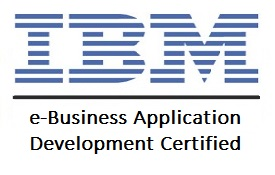
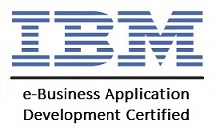
Ajustes de bandera, comentarios y reduccion de img

diff --git a/index.html b/index.html
@@ -50,7 +50,7 @@ $('#navbar-main [href=#]').click(function (e) {e.preventDefault()})
 <li><a class=page-scroll href="#portfolio">Portafolio</a></li>
 <li><a class=page-scroll href="#coments">Comentarios</a></li>
 <li><a class=page-scroll href="#contact">Contacto</a></li>
-<li><a class=page-scroll href="#"><img src="assets/img/ing.jpg"> Inglés</a></li>
+<li><a class=page-scroll href="#"><img src="assets/img/ing.jpg"></a></li>
 </div>
 </div>
 </nav>
@@ -73,18 +73,20 @@ $('#navbar-main [href=#]').click(function (e) {e.preventDefault()})
 </div>
 </div>
 </section>
-<section id=certif class="container content-section text-center">
-<div class=row>
+<section id=certif class="content-section text-center">
 <h1 class=centered>Certificaciones</h1><hr><br>
-<div class="col-lg-3 certf grises"><img src="assets/img/oca.jpg"></div>
-<div class="col-lg-3 certf grises"><img src="assets/img/oca2.jpg"></div>
-<div class="col-lg-3 certf grises"><img src="assets/img/ocp.jpg"></div>
-<div class="col-lg-3 certf grises"><img src="assets/img/ocm.jpg"></div>
+<div class=container>
+<div class=row>
+<div class="img-responsive col-lg-3 certf grises"><img src="assets/img/oca.jpg"></div>
+<div class="img-responsive col-lg-3 certf grises"><img src="assets/img/oca2.jpg"></div>
+<div class="img-responsive col-lg-3 certf grises"><img src="assets/img/ocp.jpg"></div>
+<div class="img-responsive col-lg-3 certf grises"><img src="assets/img/ocm.jpg"></div>
 </div>
-<div class= "row" align="center">
-<div class="col-lg-4 certf grises"><img src="assets/img/oce.jpg"></div>
-<div class="col-lg-4 certf grises"><img src="assets/img/oce2.jpg"></div>
-<div class="col-lg-4 certf grises"><img src="assets/img/ibm.jpg"></div>
+<div class= "row">
+<div class="img-responsive col-lg-4 certf grises"><img src="assets/img/oce.jpg"></div>
+<div class="img-responsive col-lg-4 certf grises"><img src="assets/img/oce2.jpg"></div>
+<div class="img-responsive col-lg-4 certf grises"><img src="assets/img/ibm.jpg"></div>
+</div>
 </div>
 </section>
 <section id=portfolio class="section-divider textdivider divider1">
@@ -223,7 +225,7 @@ $('#navbar-main [href=#]').click(function (e) {e.preventDefault()})
 <div class=content>
 <div class="col-lg-12 blog-content">
 <h4> <i class="fa fa-quote-left"></i> Los Ingenieros de Infobc son excelentes programadores, comunicadores y sobre todo son solucionadores de problemas. Las habilidades que poseen son diversas y se adaptan a cualquier situación. Puedo decir sinceramente que es una de las empresas más talentosa, comunicativa y única con la que he tenido el privilegio de trabajar. <i class="fa fa-quote-right"></i></h4>
-<h3 align=right>Jake Moskowitz | CEO & Co-Fundador de voyhoy.com</h3><br>
+<h4 align=right>Jake Moskowitz | CEO & Co-Fundador de voyhoy.com</h4><br>
 </div>
 </div>
 </li>
@@ -231,7 +233,7 @@ $('#navbar-main [href=#]').click(function (e) {e.preventDefault()})
 <div class=content>
 <div class="col-lg-12 blog-content">
 <h4> <i class="fa fa-quote-left"></i> Recomendamos firmemente a Infobc pues estamos extremadamente satisfechos con su rendimiento. Los desarrolladores entregan un trabajo de alta calidad a tiempo. Pero lo más importante, a diferencia de otras empresas, es que son de fiar y confiar, se comunican frecuentemente y entregan lo que prometen en el tiempo y costo razonable. Tienen un gran conocimiento y un profundo entendimiento del desarrollo "backend" de una aplicación. Es importante mencionar que pueden ponerse al día en cualquier aspecto técnico para enfrentar tareas nuevas o desconocidas. Durante los años que hemos trabajado juntos, siempre han mejorado cada día.<i class="fa fa-quote-right"></i></h4>
-<h3 align=right>Marcus J. Mollmann | CEO de capdominus.com / closetbox.me</h3><br>
+<h4 align=right>Marcus J. Mollmann | CEO de capdominus.com / closetbox.me</h4><br>
 </div>
 </div>
 </li>

diff --git a/assets/js/responsiveslides.min.js b/assets/js/responsiveslides.min.js
@@ -1,4 +1,4 @@
-(function(c,I,B){c.fn.responsiveSlides=function(l){var a=c.extend({auto:!0,speed:500,timeout:4E3,pager:!1,nav:!1,random:!1,pause:!1,pauseControls:!0,prevText:"Previous",nextText:"Next",maxwidth:"",navContainer:"",manualControls:"",namespace:"rslides",before:c.noop,after:c.noop},l);return this.each(function(){B++;var f=c(this),s,r,t,m,p,q,n=0,e=f.children(),C=e.size(),h=parseFloat(a.speed),D=parseFloat(a.timeout),u=parseFloat(a.maxwidth),g=a.namespace,d=g+B,E=g+"_nav "+d+"_nav",v=g+"_here",j=d+"_on",
+(function(c,I,B){c.fn.responsiveSlides=function(l){var a=c.extend({auto:!0,speed:500,timeout:4E3,pager:!1,nav:!1,random:!1,pause:!1,pauseControls:!0,prevText:"  Previous  ",nextText:"  Next  ",maxwidth:"",navContainer:"",manualControls:"",namespace:"rslides",before:c.noop,after:c.noop},l);return this.each(function(){B++;var f=c(this),s,r,t,m,p,q,n=0,e=f.children(),C=e.size(),h=parseFloat(a.speed),D=parseFloat(a.timeout),u=parseFloat(a.maxwidth),g=a.namespace,d=g+B,E=g+"_nav "+d+"_nav",v=g+"_here",j=d+"_on",
 w=d+"_s",k=c("<ul class='"+g+"_tabs "+d+"_tabs' />"),x={"float":"left",position:"relative",opacity:1,zIndex:2},y={"float":"none",position:"absolute",opacity:0,zIndex:1},F=function(){var b=(document.body||document.documentElement).style,a="transition";if("string"===typeof b[a])return!0;s=["Moz","Webkit","Khtml","O","ms"];var a=a.charAt(0).toUpperCase()+a.substr(1),c;for(c=0;c<s.length;c++)if("string"===typeof b[s[c]+a])return!0;return!1}(),z=function(b){a.before(b);F?(e.removeClass(j).css(y).eq(b).addClass(j).css(x),
 n=b,setTimeout(function(){a.after(b)},h)):e.stop().fadeOut(h,function(){c(this).removeClass(j).css(y).css("opacity",1)}).eq(b).fadeIn(h,function(){c(this).addClass(j).css(x);a.after(b);n=b})};a.random&&(e.sort(function(){return Math.round(Math.random())-0.5}),f.empty().append(e));e.each(function(a){this.id=w+a});f.addClass(g+" "+d);l&&l.maxwidth&&f.css("max-width",u);e.hide().css(y).eq(0).addClass(j).css(x).show();F&&e.show().css({"-webkit-transition":"opacity "+h+"ms ease-in-out","-moz-transition":"opacity "+
 h+"ms ease-in-out","-o-transition":"opacity "+h+"ms ease-in-out",transition:"opacity "+h+"ms ease-in-out"});if(1<e.size()){if(D<h+100)return;if(a.pager&&!a.manualControls){var A=[];e.each(function(a){a+=1;A+="<li><a href='#' class='"+w+a+"'>"+a+"</a></li>"});k.append(A);l.navContainer?c(a.navContainer).append(k):f.after(k)}a.manualControls&&(k=c(a.manualControls),k.addClass(g+"_tabs "+d+"_tabs"));(a.pager||a.manualControls)&&k.find("li").each(function(a){c(this).addClass(w+(a+1))});if(a.pager||a.manualControls)q=

diff --git a/assets/js/responsiveslides.js b/assets/js/responsiveslides.js
@@ -11,8 +11,8 @@
       "random": false,          // Boolean: Randomize the order of the slides, true or false
       "pause": false,           // Boolean: Pause on hover, true or false
       "pauseControls": true,    // Boolean: Pause when hovering controls, true or false
-      "prevText": "Previous",   // String: Text for the "previous" button
-      "nextText": "Next",       // String: Text for the "next" button
+      "prevText": "  Previous  ", // String: Text for the "previous" button
+      "nextText": "  Next  ",// String: Text for the "next" button
       "maxwidth": "",           // Integer: Max-width of the slideshow, in pixels
       "navContainer": "",       // Selector: Where auto generated controls should be appended to, default is after the <ul>
       "manualControls": "",     // Selector: Declare custom pager navigation

diff --git a/assets/css/grayscale.css b/assets/css/grayscale.css
@@ -4,26 +4,13 @@ hr {
        box-sizing: content-box;
 }
 
-h1,
-h2,
-h3,
-h5,
-h6 {
-    margin: 0 0 35px;
-    text-transform: uppercase;
-    font-family: Montserrat,"Helvetica Neue",Helvetica,Arial,sans-serif;
-    font-weight: 700;
-    letter-spacing: 1px;
-}
 
 h4{
     margin: 0 0 35px;
-    font-family: Montserrat,"Helvetica Neue",Helvetica,Arial,sans-serif;
-    font-weight: 700;
+    font-family:"Raleway";
     font-size: 22px;
     letter-spacing: 1px;
     line-height: 1.5;
-    
  }
 
 p {
@@ -450,8 +437,8 @@ filter: Gray(); /* IE4-8 and 9 */
 transition: all 0.5s ease;
 }
 .grises img:hover {
-width: 230px;
-height: 149px;
+width: 216px;
+height: 140px;
 -webkit-filter: grayscale(0%);
 -moz-filter: grayscale(0%);
 -ms-filter: grayscale(0%);

diff --git a/assets/css/main.css b/assets/css/main.css
@@ -25,7 +25,7 @@ hr{position:relative;border:none;}
 hr:before{content:" ";position:absolute;top:0;left:25%;width:50%;height:2px;background:#ccc;}
 a img{background:white;}
 .odd a img{background:#f5f5f5;}
-h1, h2, h3, h4, h5, h6{font-family:"Raleway";font-weight:300;color:#333;}
+h1, h2, h3, h5, h6{font-family:"Raleway";font-weight:300;color:#333;text-transform: uppercase;}
 p{line-height:28px;margin-bottom:10px;}
 .centered{text-align:center;}
 .paragraph-lead{font-size:20px;color:#3498db;}
